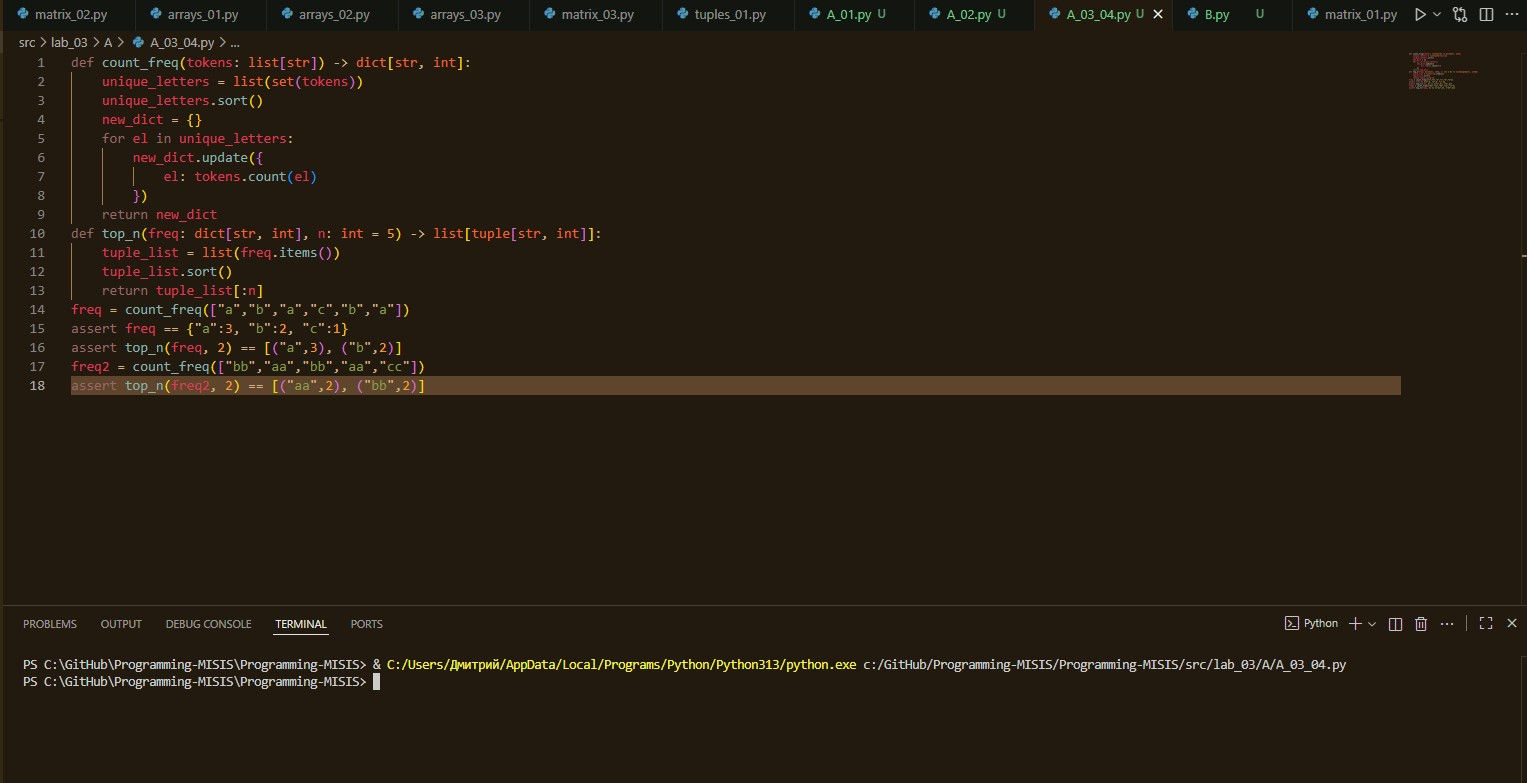
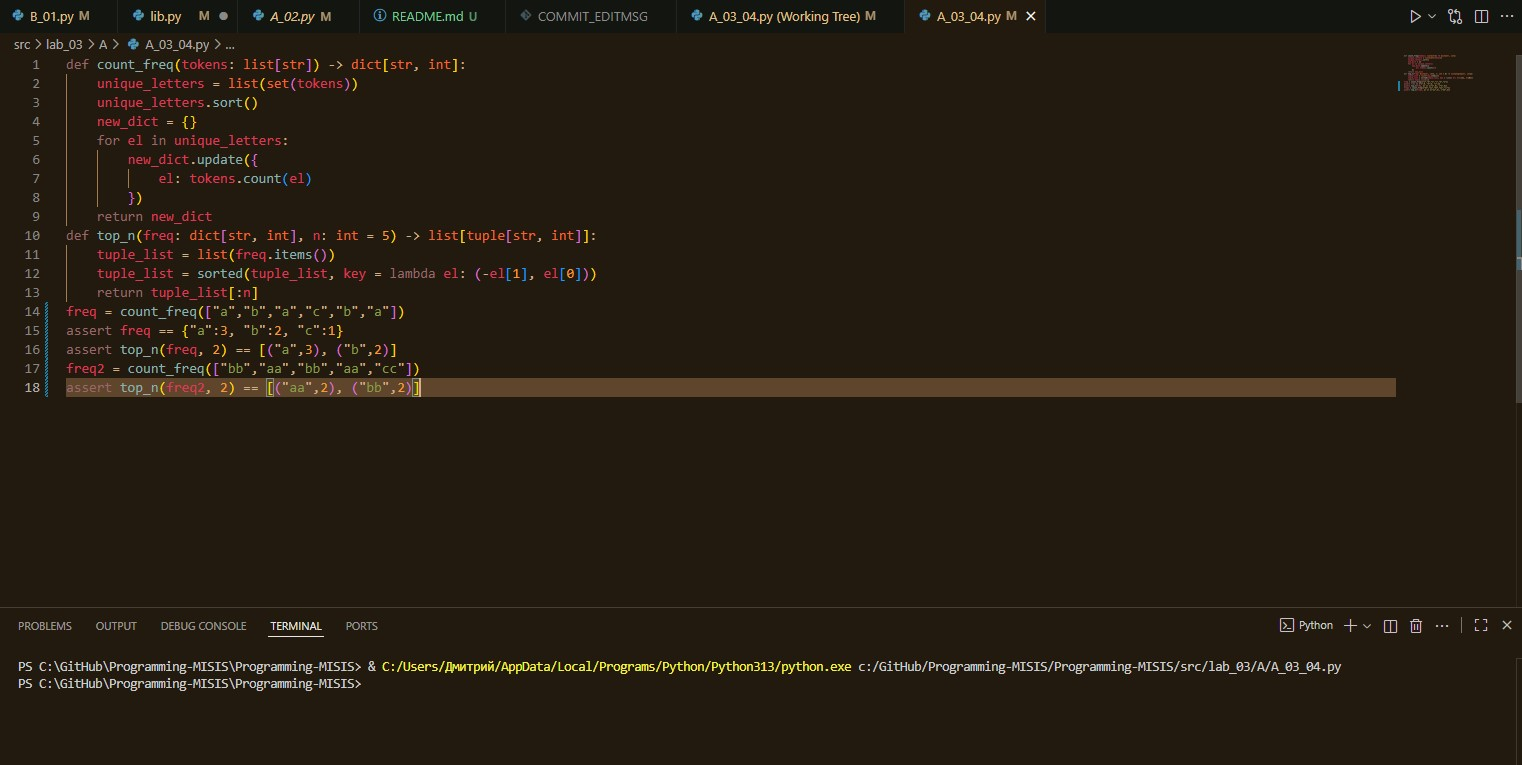
update

diff --git a/src/lib.py b/src/lib.py
@@ -1,0 +1,65 @@
+import re
+#Arrays
+def unique_sorted(nums: list[float | int]) -> list[float | int]:
+    return sorted(set(nums))
+def flatten(mat: list[list | tuple]) -> list:
+    flatten_mat = []
+    for el in mat:
+        if not isinstance(el, (list, tuple)):
+            return TypeError
+        flatten_mat += el
+    return flatten_mat
+#Matrices
+def transpose(mat: list[list[float | int]]) -> list[list]:
+    rows, columns = len(mat), len(mat[0])
+    clear_matrix = [[0] * rows for el in range(columns)]
+    if len(mat) == 0:
+        return mat
+    for el in range(len(mat)):
+        if len(mat[el-1]) != len(mat[el]):
+            return ValueError
+    for r in range(rows):
+        for c in range(columns):
+            clear_matrix[c][r] = mat[r][c]
+    return clear_matrix
+def row_sums(mat: list[list[float | int]]) -> list[float]:
+    rows, columns = len(mat), len(mat[0])
+    sum_of_rows = []
+    if rows == columns: 
+        return "Матрица является квадратной, требуется прямоугольность (по усл.)"
+    for index in range(len(mat)):
+        sum_of_rows.append(sum(mat[index]))    
+    return sum_of_rows
+def col_sums(mat: list[list[float | int]]) -> list[float]:
+    rows, columns = len(mat), len(mat[0])
+    sample_of_matrix = transpose(mat)
+    sum_of_columns = []
+    if rows == columns:
+        return "Матрица является квадратной, требуется прямоугольность (по усл.)"
+    for el in sample_of_matrix:
+        sum_of_columns.append(sum(el))
+    return sum_of_columns
+#Tokens
+def normalize(text:str , *, casefold: bool = True, yo2e: bool = True) -> str:
+    if casefold == True:
+        text = text.casefold()
+    if yo2e == True:
+        text = text.replace("ё", "е").replace("Ё", "Е")
+    text = re.sub(r'[\t\r\n]', " ", text)
+    text = re.sub(r'\s+', " ", text).strip()
+    return text
+def tokenize(text: str) -> list[str]:
+    text = normalize(text)
+    return re.findall(r"\w+(?:-\w+)*", text)
+def count_freq(tokens: list[str]) -> dict[str, int]:
+    unique_letters = list(set(tokens))
+    new_dict = {}
+    for el in unique_letters:
+        new_dict.update({
+            el: tokens.count(el)
+        })
+    return new_dict
+def top_n(freq: dict[str, int], n: int = 5) -> list[tuple[str, int]]:
+    tuple_list = list(freq.items())
+    tuple_list = sorted(tuple_list, key = lambda el: (-el[1], el[0]))
+    return tuple_list[:n]

diff --git a/src/lab_03/B/B_01.py b/src/lab_03/B/B_01.py
@@ -1,18 +1,13 @@
-import re
+import sys
+sys.path.append("C:\GitHub\Programming-MISIS\Programming-MISIS\src")
+from lib import *
 def script(text: str, n: int = 5):
-    print("---------")
-    text = text.casefold().replace("Ё", "Е").replace("ё", "е")
-    text = re.sub(r"[\t\r\n]", " ", text)
-    text = re.sub(r"\s+", " ", text).strip()
-    text = re.findall(r"\w+(?:-\w+)*", text)
-    len_unique_words = len(list(set(text)))
-    total_words = len(text)
-    unique_words = list(set(text))
-    unique_words.sort()
-    print(f"Всего слов: {total_words}")
-    print(f"Уникальных: {len_unique_words}")
-    print(f"Топ-5: {len(unique_words[:n])}")
-    for el in unique_words[:n]:
-        print(f"{el}: {text.count(el)}")
-    return "---------"
-print(script("мир ёжик ёжик мир мир евгений евгений!!!!"))
+    print(f"------------")
+    print(f"Всего слов: {len(tokenize(normalize(text)))}")
+    print(f"Уникальных слов: {len(set(tokenize(normalize(text))))}")
+    print("Топ-5:")
+    text = top_n(count_freq(tokenize(normalize(text))))
+    for el in text:
+        print(f"{el[0]}: {el[1]}")
+    return "------------"
+print(script("привет привет привет привет мир мир мир мир"))

diff --git a/src/lab_03/A/A_03_04.py b/src/lab_03/A/A_03_04.py
@@ -1,0 +1,18 @@
+def count_freq(tokens: list[str]) -> dict[str, int]:
+    unique_letters = list(set(tokens))
+    unique_letters.sort()
+    new_dict = {}
+    for el in unique_letters:
+        new_dict.update({
+            el: tokens.count(el)
+        })
+    return new_dict
+def top_n(freq: dict[str, int], n: int = 5) -> list[tuple[str, int]]:
+    tuple_list = list(freq.items())
+    tuple_list = sorted(tuple_list, key = lambda el: (-el[1], el[0]))
+    return tuple_list[:n]
+freq = count_freq(["a","b","a","c","b","a"])
+assert freq == {"a":3, "b":2, "c":1}
+assert top_n(freq, 2) == [("a",3), ("b",2)]
+freq2 = count_freq(["bb","aa","bb","aa","cc"])
+assert top_n(freq2, 2) == [("aa",2), ("bb",2)]

diff --git a/src/lab_03/A/A_02.py b/src/lab_03/A/A_02.py
@@ -1,0 +1,9 @@
+import re
+def tokenize(text: str) -> list[str]:
+    text = text.casefold().replace("Ё", "Е").replace("ё", "е")
+    text = re.sub(r"\t\r\n", " ", text)
+    text = re.sub(r"\s+", " ", text).strip()
+    return re.findall(r"\w+(?:-\w+)*", text)
+assert tokenize("привет, мир!") == ["привет", "мир"]
+assert tokenize("по-настоящему круто") == ["по-настоящему", "круто"]
+assert tokenize("2025 год") == ["2025", "год"]

diff --git a/src/lab_03/A/A_01.py b/src/lab_03/A/A_01.py
@@ -1,0 +1,11 @@
+import re
+def normalize(text:str , *, casefold: bool = True, yo2e: bool = True) -> str:
+    if casefold == True:
+        text = text.casefold()
+    if yo2e == True:
+        text = text.replace("ё", "е").replace("Ё", "Е")
+    text = re.sub(r'[\t\r\n]', " ", text)
+    text = re.sub(r'\s+', " ", text).strip()
+    return text
+assert normalize("ПрИвЕт\nМИр\t") == "привет мир"
+assert normalize("ёжик, Ёлка") == "ежик, елка"
